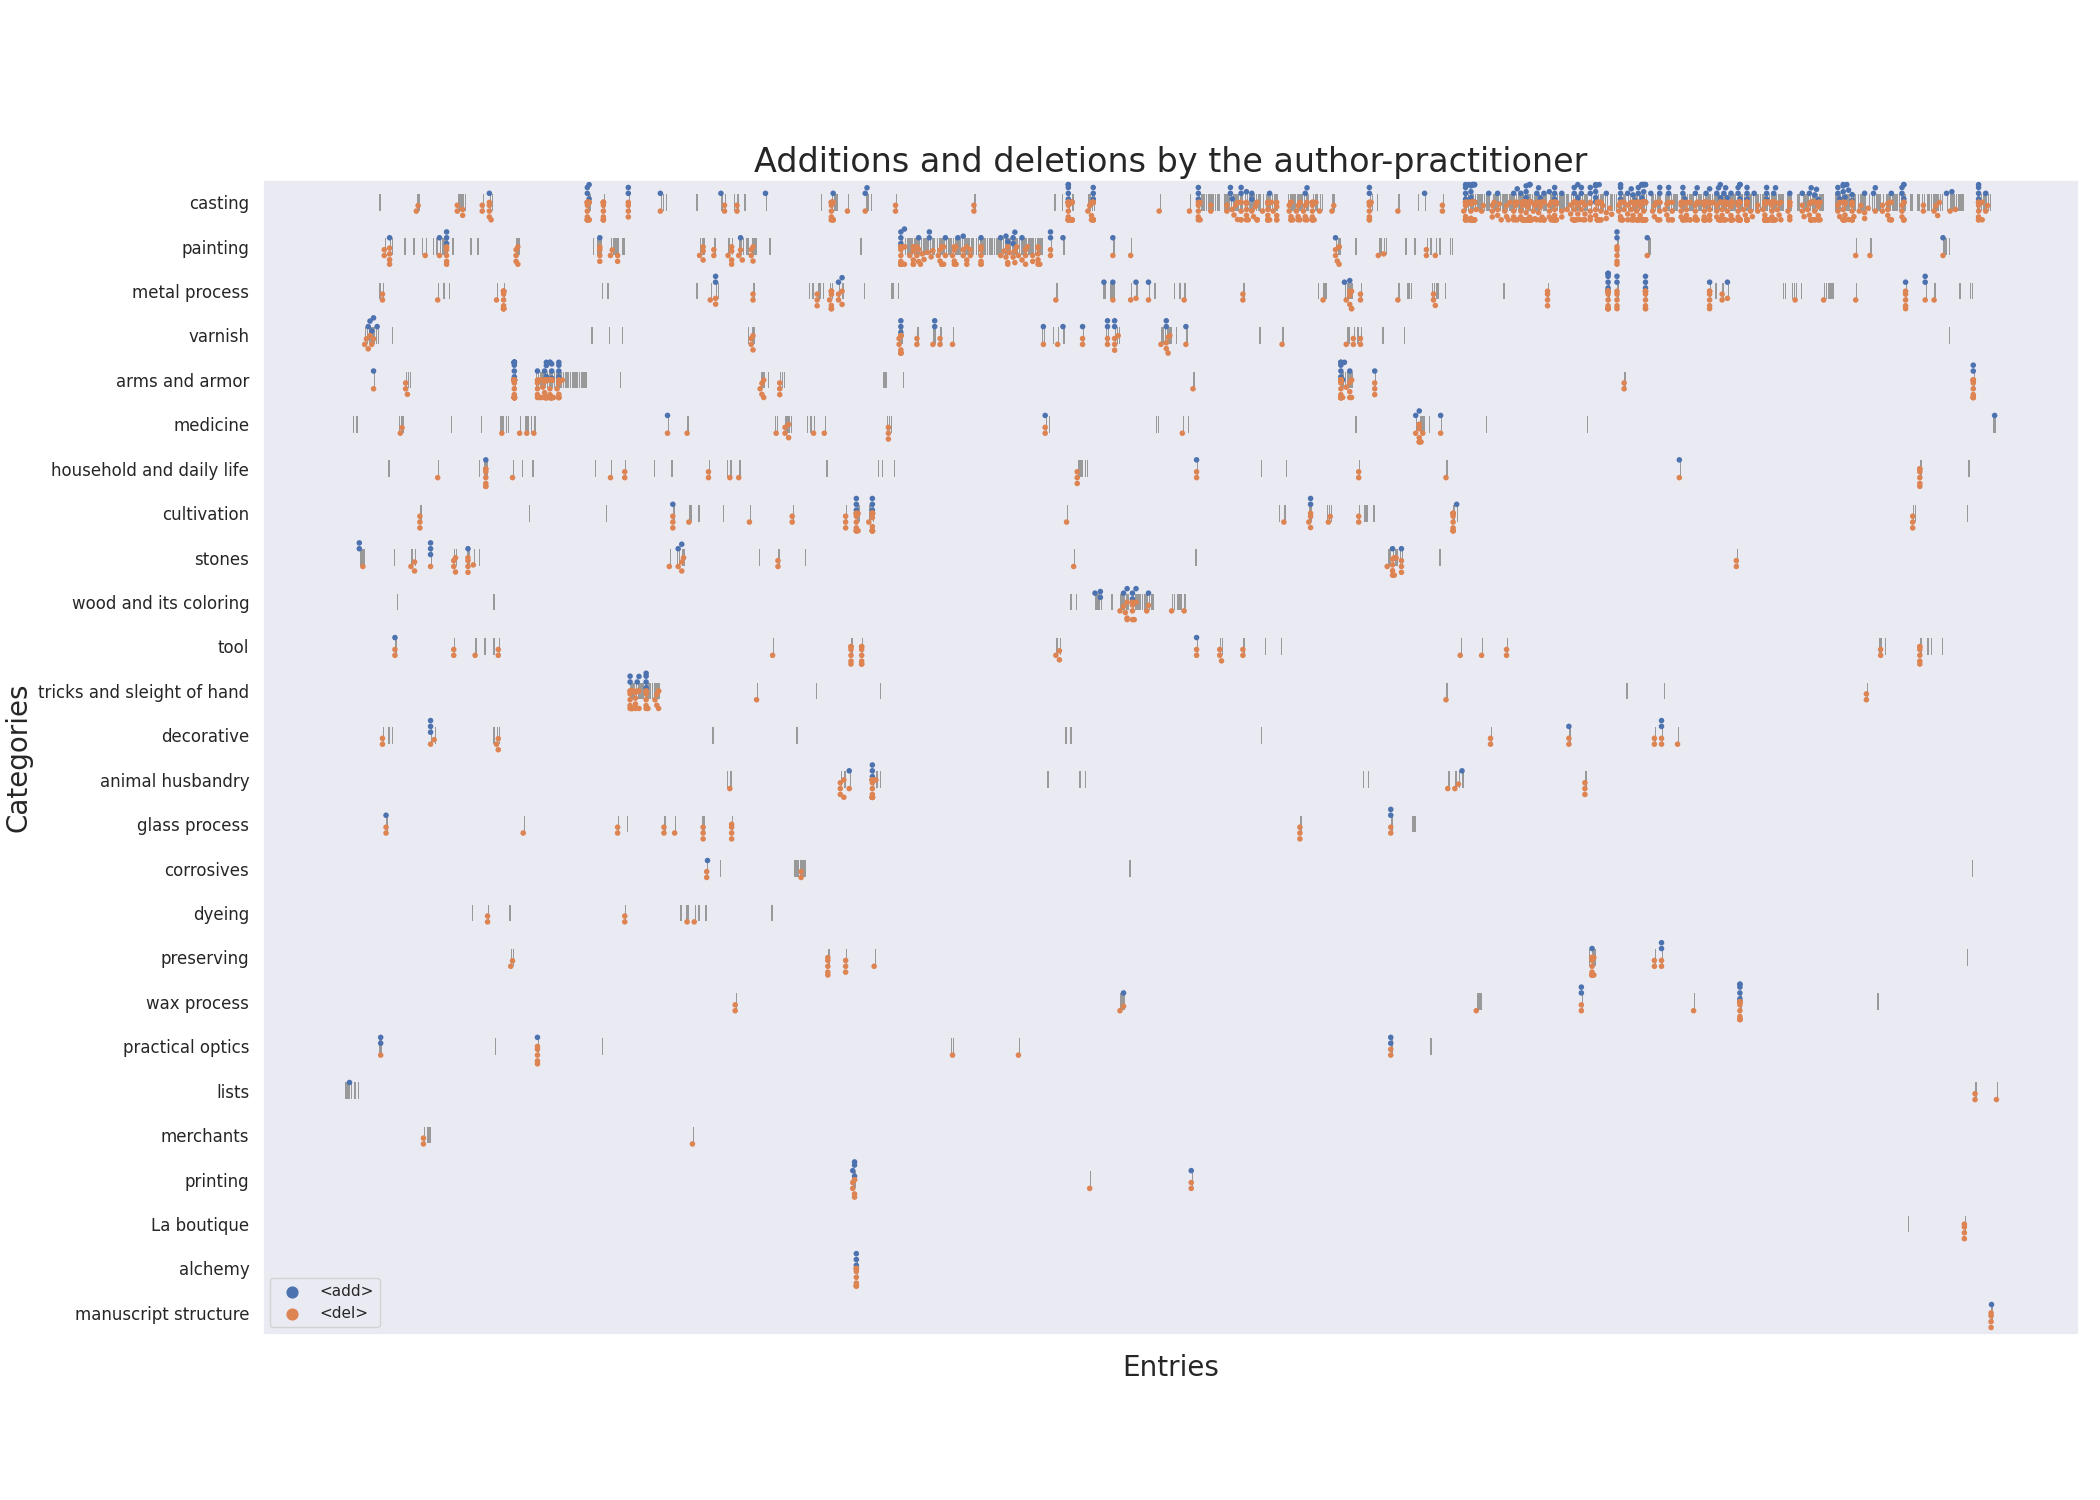
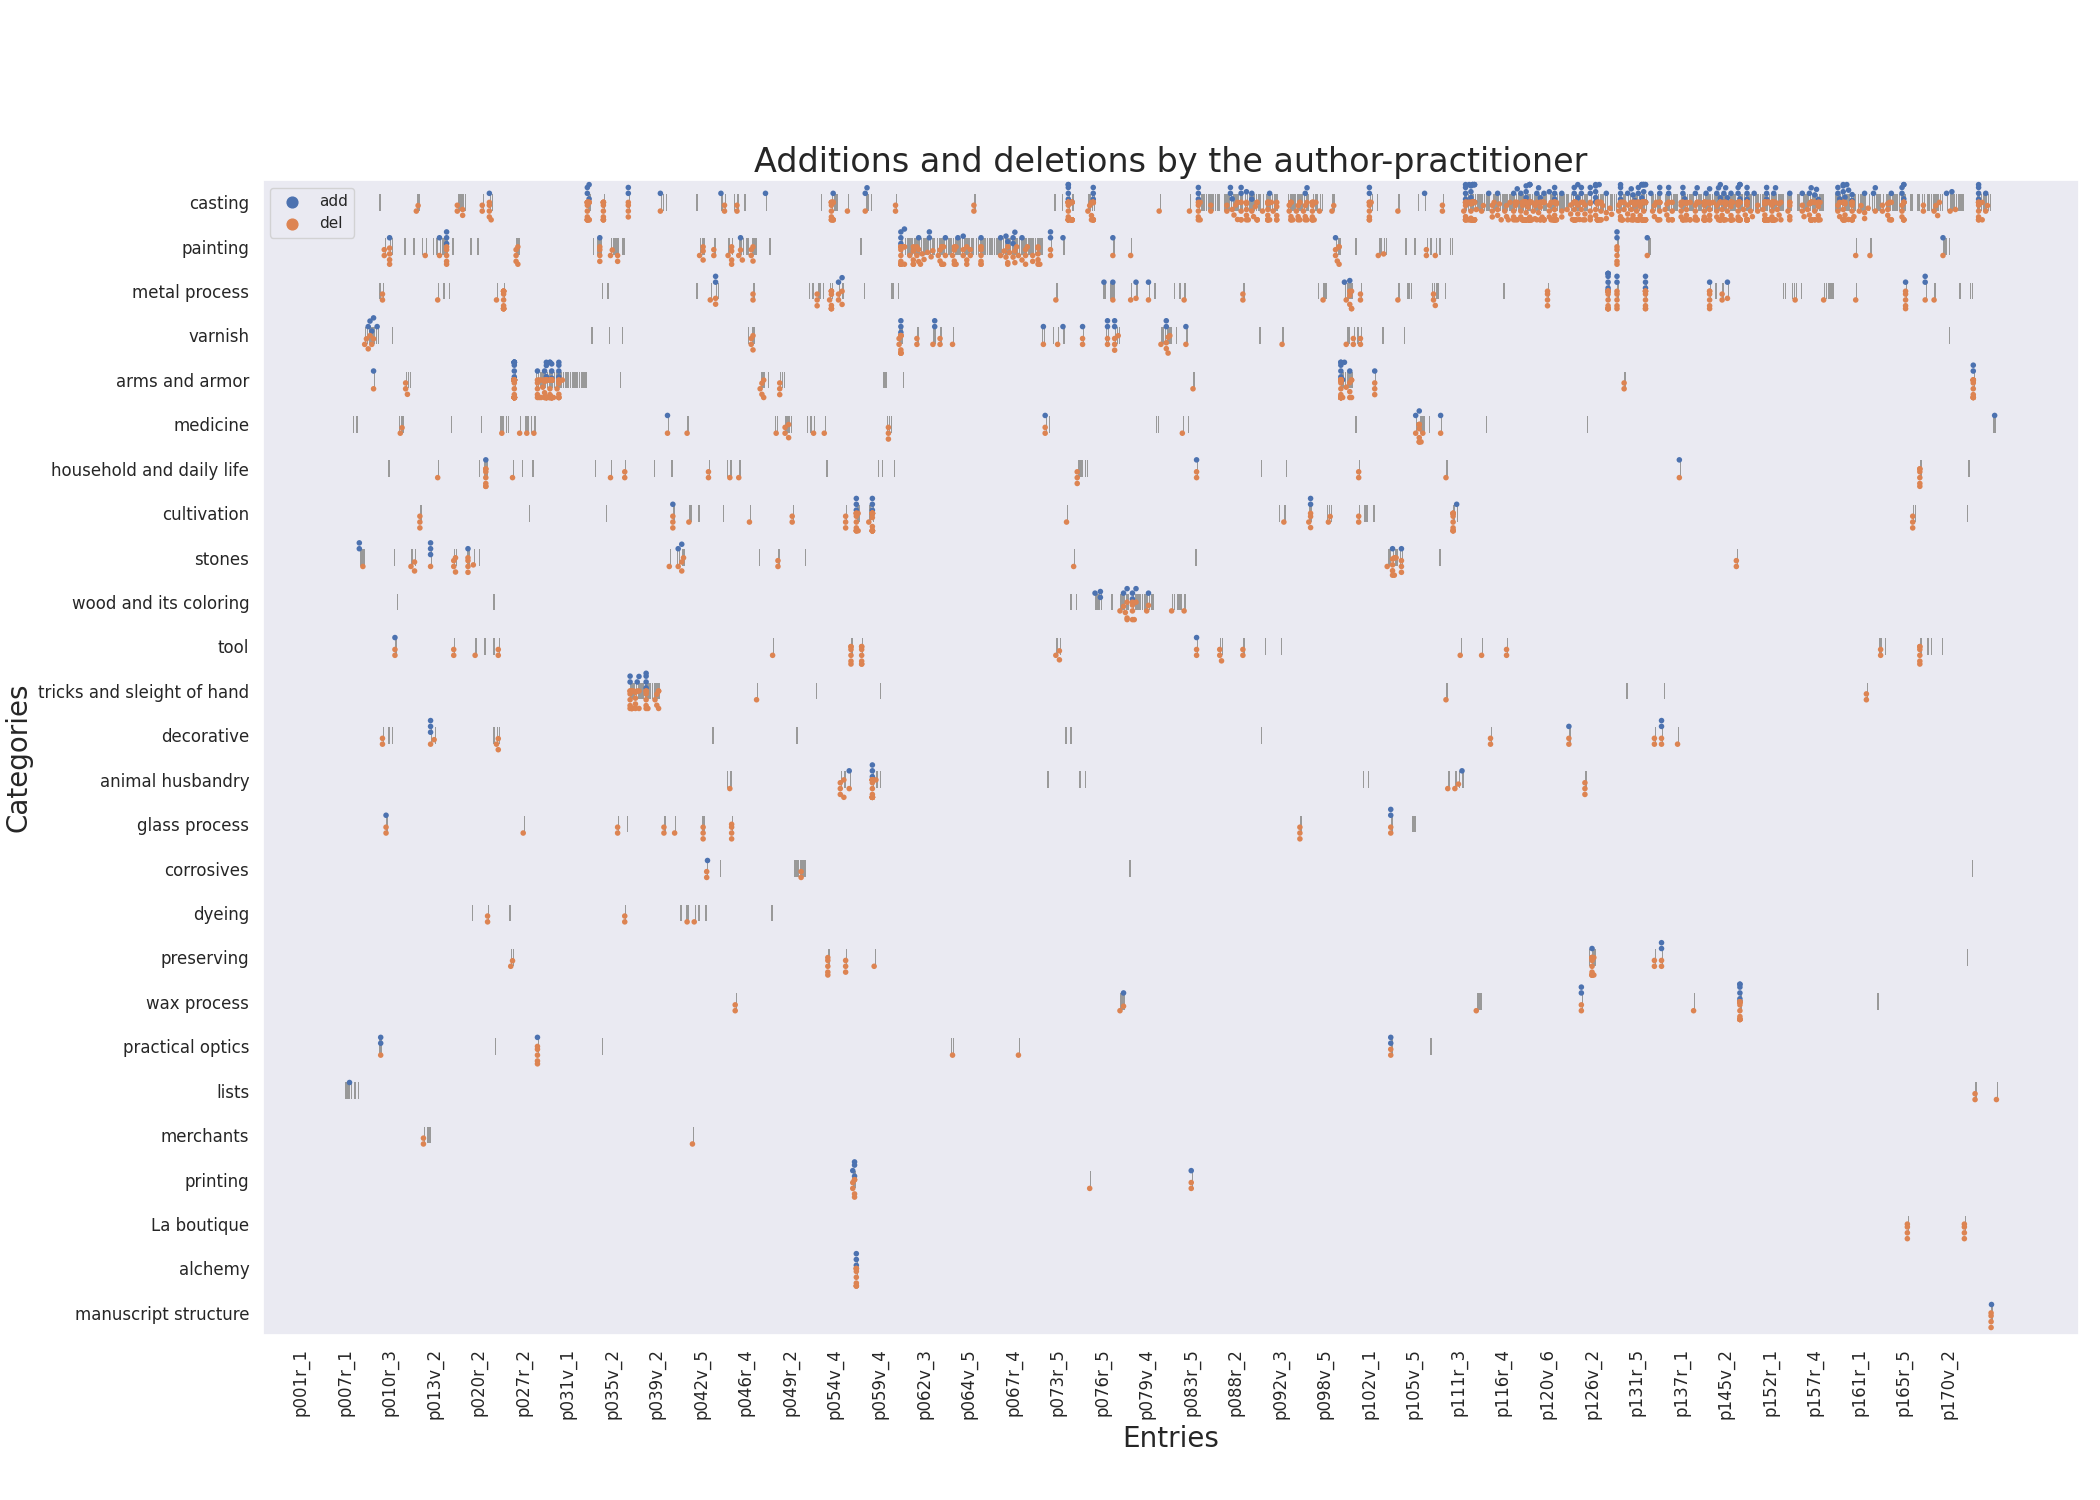
added labels on x axis of bubble and swarm plots + general tweaks

diff --git a/manuscript_visualizations.py b/manuscript_visualizations.py
@@ -9,6 +9,7 @@ import numpy as np
 import pandas
 import seaborn as sns; sns.set()
 import matplotlib.pyplot as plt
+import matplotlib.ticker as ticker
 
 cwd = os.getcwd()
 m_path = cwd if 'manuscript-object' not in cwd else f'{cwd}/../'
@@ -69,6 +70,8 @@ def tags_bubbleplot(search_tags, filename, title, normalized):
     tags = []
     counts = []
 
+    entry = None
+
     for i in range(0, 340):
         number = format(i//2 + 1, '03')
         side = "r" if (i % 2 == 0) else "v"
@@ -79,7 +82,12 @@ def tags_bubbleplot(search_tags, filename, title, normalized):
         tree = etree.parse(input_filename)
 
         for div in tree.findall(".//div"):
-            entry = div.get("id")
+            new_entry = div.get("id")
+            if new_entry != None:
+                entry = new_entry
+            if entry == None:
+                continue
+
             entry_text = etree.tostring(div, method = "xml", encoding="UTF-8").decode('utf-8')
 
             for tag in search_tags:
@@ -96,7 +104,7 @@ def tags_bubbleplot(search_tags, filename, title, normalized):
     df = pandas.DataFrame({"entries": entries, "tags": tags, "counts": counts})
 
     plt.subplots(figsize = (15, 5))
-    #plt.gcf().subplots_adjust(left = 0.05)
+    plt.gcf().subplots_adjust(bottom = 0.2)
     #plt.gcf().subplots_adjust(right = 0.95)
     bubbleplot = sns.scatterplot(x = "entries", y = "tags", size = "counts", sizes = (0, 500), data = df, linewidth = 0, alpha = 0.3)
 
@@ -105,7 +113,14 @@ def tags_bubbleplot(search_tags, filename, title, normalized):
     bubbleplot.set_xlabel("Entries", fontsize = 16)
     bubbleplot.set_title(title, fontsize = 20)
 
-    bubbleplot.set_xticklabels([], rotation = 90, fontsize = 6)
+    individual_entries = list(dict.fromkeys(entries))
+    xlabels = []
+    for i in range(len(individual_entries)):
+        if i % 25 == 0:
+            xlabels.append(individual_entries[i])
+        else:
+            xlabels.append("")
+    bubbleplot.set_xticklabels(xlabels, rotation = 90, fontsize = 6)
     #bubbleplot.legend(loc = "best", ncol = 1, framealpha = 0.2, fancybox = True)
     plt.legend(bbox_to_anchor = (1.03, 0.5), loc = "center left", fancybox = True)
 
@@ -172,6 +187,8 @@ def entries_lengths_scatterplot(logscale):
         normalized_lengths = []
         folios = []
 
+        entry = None
+
         for i in range(0, 340):
             number = format(i//2 + 1, '03')
             side = "r" if (i % 2 == 0) else "v"
@@ -182,9 +199,12 @@ def entries_lengths_scatterplot(logscale):
             tree = etree.parse(input_filename)
 
             for div in tree.findall(".//div"):
-                entry = div.get("id")
+                new_entry = div.get("id")
+                if new_entry != None:
+                    entry = new_entry
                 if entry == None:
                     continue
+
                 entry_text = etree.tostring(div, method = "text", encoding="UTF-8").decode('utf-8')
                 entry_words = entry_text.split()
                 number_of_words = len(entry_words)
@@ -264,6 +284,8 @@ def entries_lengths_distplot():
         lengths = []
         normalized_lengths = []
 
+        entry = None
+
         for i in range(0, 340):
             number = format(i//2 + 1, '03')
             side = "r" if (i % 2 == 0) else "v"
@@ -274,9 +296,12 @@ def entries_lengths_distplot():
             tree = etree.parse(input_filename)
 
             for div in tree.findall(".//div"):
-                entry = div.get("id")
+                new_entry = div.get("id")
+                if new_entry != None:
+                    entry = new_entry
                 if entry == None:
                     continue
+
                 entry_text = etree.tostring(div, method = "text", encoding="UTF-8").decode('utf-8')
                 entry_words = entry_text.split()
                 number_of_words = len(entry_words)
@@ -318,9 +343,14 @@ def tags_by_category_swarmplot(search_tags, filename, title):
     entry_count = 0
 
     # for the stripplot
-    all_entries = []
+    entries2 = []
     entry_ids2 = []
     categories2 = []
+
+    all_entries = [] # used for getting entry ids (necessary for the x axis)
+    xlabels = [""] # will be the labels on the x axis
+
+    entry = None
 
     for i in range(0, 340):
         number = format(i//2 + 1, '03')
@@ -332,19 +362,22 @@ def tags_by_category_swarmplot(search_tags, filename, title):
         tree = etree.parse(input_filename)
 
         for div in tree.findall(".//div"):
-            entry = div.get("id")
+            new_entry = div.get("id")
+            if new_entry != None:
+                entry = new_entry
             if entry == None:
-                # not an entry
                 continue
 
-            id = -1
-            for j in range(len(all_entries)):
-                if all_entries[j] == entry:
-                    id = entry_ids2[j]
-                    break
-            if id == -1:
-                id = entry_count
-                entry_count += 1
+            if entry not in all_entries:
+                id = len(all_entries)
+                all_entries.append(entry)
+                if id % 25 == 0:
+                    xlabels.append(entry)
+            else:
+                for j in range(len(all_entries)):
+                    if all_entries[j] == entry:
+                        id = j
+                        break
 
             entry_text = etree.tostring(div, method = "xml", encoding="UTF-8").decode('utf-8')
             category_list = div.get("categories")
@@ -353,8 +386,8 @@ def tags_by_category_swarmplot(search_tags, filename, title):
             if category_list == None:
                 # find the categories if this entry was already seen
                 category_list = []
-                for j in range(len(all_entries)):
-                    if all_entries[j] == entry:
+                for j in range(len(entries2)):
+                    if entries2[j] == entry:
                         category_list.append(categories2[j])
 
             for tag in search_tags:
@@ -363,11 +396,11 @@ def tags_by_category_swarmplot(search_tags, filename, title):
                     for cat in category_list:
                         entries.append(entry)
                         entry_ids.append(id)
-                        tags.append(tag) # TO DO remove < and >
+                        tags.append(tag.replace("<", "").replace(">", ""))
                         categories.append(cat)
 
             for cat in category_list:
-                all_entries.append(entry)
+                entries2.append(entry)
                 entry_ids2.append(id)
                 categories2.append(cat)
 
@@ -384,12 +417,15 @@ def tags_by_category_swarmplot(search_tags, filename, title):
                           dodge = True, data = df_swarm, size = 4,
                           order = all_categories)
 
+    swarm.xaxis.set_major_locator(ticker.MultipleLocator(25))
+    swarm.xaxis.set_major_formatter(ticker.ScalarFormatter())
+
     swarm.grid(False)
     swarm.set_ylabel("Categories", fontsize = 20)
     swarm.set_xlabel("Entries", fontsize = 20)
     swarm.set_title(title, fontsize = 24)
 
-    swarm.set_xticklabels([])
+    swarm.set_xticklabels(xlabels, rotation = 90, fontsize = 12)
     swarm.set_yticklabels(swarm.get_yticklabels(), fontsize = 12)
     swarm.legend(fancybox = True)
 
@@ -433,7 +469,6 @@ print("Distplots finished.")
 
 tags_by_category_swarmplot(["<del>", "<add>"], "add_del_swarmplot", "Additions and deletions by the author-practitioner")
 tags_by_category_swarmplot(margin_types, "margins_swarmplot", "Margins in the manuscript")
-
 tags_by_category_swarmplot(language_tags, "languages_swarmplot", "Other languages in the English translation of the manuscript")
 
 print("Swarmplot finished.")
